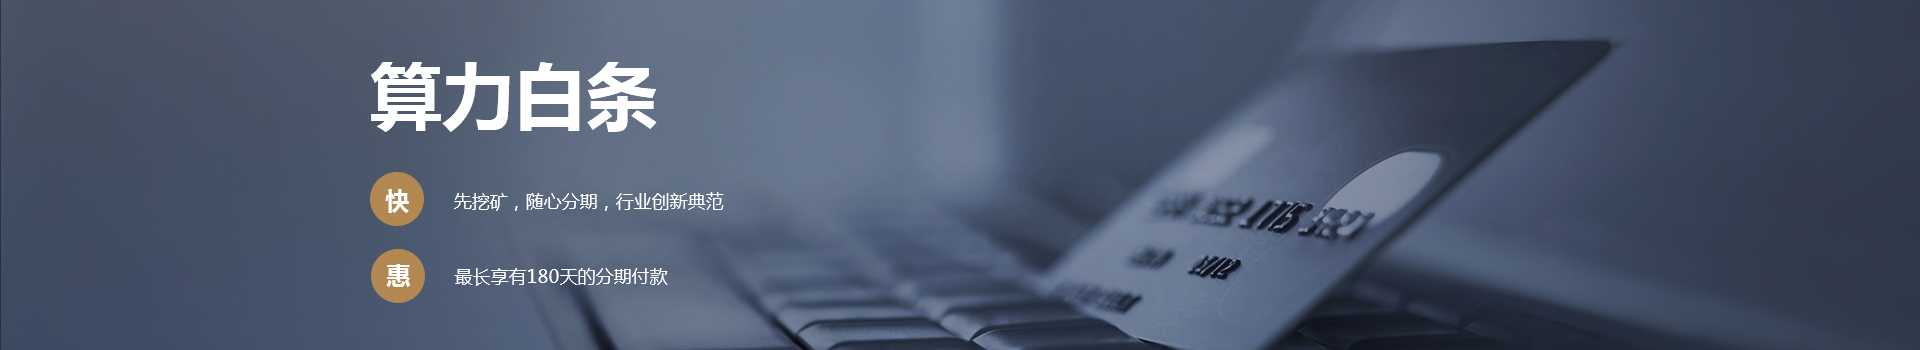
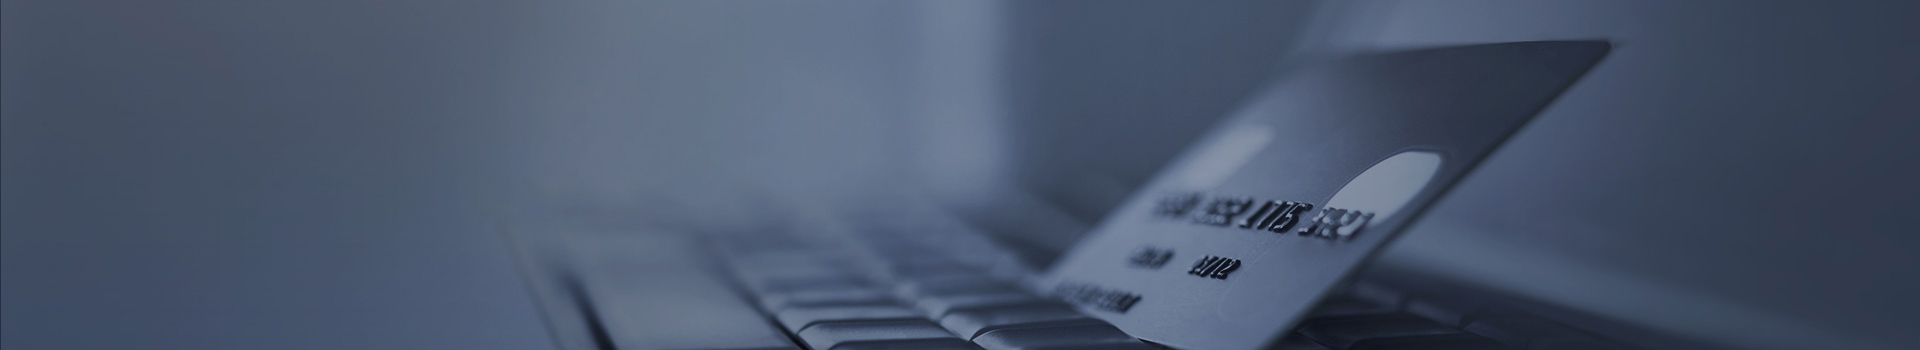
hd

Changed region(s): [[0.1875, 0.1714, 0.3438, 0.3714], [0.1875, 0.4857, 0.375, 0.6571], [0.1875, 0.7143, 0.3438, 0.8571]]

diff --git a/src/components/computeNews/ComputeHome.vue b/src/components/computeNews/ComputeHome.vue
@@ -58,18 +58,22 @@
         <router-link to="/transaction">了解更多 ></router-link>
       </h4>
       <div class="cominfor_infoleft">
-        <p v-for="n,k in infoleft" class="infoleft_p">
-          <span class="status">【出售】</span>
-          <span class="title">{{n.title}}</span>
-          <span class="time">{{n.created_time}}</span>
-        </p>
+        <router-link to="/transaction">
+          <p v-for="n,k in infoleft" class="infoleft_p">
+            <span class="status">【出售】</span>
+            <span class="title">{{n.title}}</span>
+            <span class="time">{{n.created_time}}</span>
+          </p>
+        </router-link>
       </div>
       <div class="cominfor_inforight">
-        <p v-for="n,k in inforight" class="inforight_p">
-          <span class="status">【求购】</span>
-          <span class="title">{{n.title}}</span>
-          <span class="time">{{n.created_time}}</span>
-        </p>
+        <router-link to="/transaction">
+          <p v-for="n,k in inforight" class="inforight_p">
+            <span class="status">【求购】</span>
+            <span class="title">{{n.title}}</span>
+            <span class="time">{{n.created_time}}</span>
+          </p>
+        </router-link>
       </div>
     </div>
     <div class="cominfor_she">
@@ -118,7 +122,7 @@
       <h4>
         <p class="title">挖矿币种</p>
         <p class="text">虚拟数字货币百科</p>
-        <router-link to="/digitalCurrency/list">了解更多 ></router-link>
+        <router-link to="/currency">了解更多 ></router-link>
       </h4>
       <table border="0"  class="covertable" style="margin:0;">
         <thead>

diff --git a/src/views/computeNews/index.vue b/src/views/computeNews/index.vue
@@ -14,7 +14,7 @@
       return {
         active: '',
         computationallist: [{title: '算力资讯', path: '/industryInformation'}, {title: '设备之家', path: '/equipments/list'}, {title: '交易信息', path: '/transaction'}, {title: '挖矿币种', path: '/currency'}],
-        leftnav: [{big: 'icon-zixun', title: '资讯', path: '/computeNews/list'}, {big: 'icon-zixun1', title: '快报', path: '/quickNews/list'}, {big: 'icon-zhizaohangye', title: '厂商', path: '/manufacturer/list'}, {big: 'icon-kuangji', title: '测评', path: '/equipmentEvaluate/list'}, {big: 'icon-bowuguan', title: '博物馆', path: '/equipments/list'}, {big: 'icon-bitebi', title: '币种', path: '/digitalCurrency/list'}]
+        leftnav: [{big: 'icon-zixun', title: '资讯', path: '/computeNews/list'}, {big: 'icon-zixun1', title: '快报', path: '/quickNews/list'}, {big: 'icon-zhizaohangye', title: '厂商', path: '/manufacturer/list'}, {big: 'icon-kuangji', title: '测评', path: '/equipmentEvaluate/list'}, {big: 'icon-bowuguan', title: '博物馆', path: '/equipments/list'}, {big: 'icon-bitebi', title: '历史曲线', path: '/computeChart/list'}]
       }
     },
     computed: {

diff --git a/src/views/home/mobile.vue b/src/views/home/mobile.vue
@@ -11,15 +11,17 @@
     <div class="home_compute_news">
       <h3 class="home_title">算力资讯</h3>
       <div class="compute_items">
-        <div class="item" v-for="n,k in newsNav">
-          <div class="text">
-            <p>{{n.title}}</p>
-            <p>{{n.desc}}</p>
+        <router-link to="/quickNews/list">
+          <div class="item" v-for="n,k in newsNav">
+            <div class="text">
+              <p>{{n.title}}</p>
+              <p>{{n.desc}}</p>
+            </div>
+            <div class="item_img">
+              <img :src="require('@/assets/images/mobile/news'+(k+1)+'.png')" alt="">
+            </div>
           </div>
-          <div class="item_img">
-            <img :src="require('@/assets/images/mobile/news'+(k+1)+'.png')" alt="">
-          </div>
-        </div>
+        </router-link>
       </div>
     </div>
     <div class="home_compute_loan">

diff --git a/src/components/home/dataList/mobile.vue b/src/components/home/dataList/mobile.vue
@@ -4,7 +4,9 @@
     <div class="mobile_listdata">
       <div class="mobile_list_box">
         <div v-for="d,i in list" @click="goPay(d.product_id||d.id)" :key="i" class="mobile_lists">
-          <img :src="d.minerPicture"/>
+          <div class="imgposition">
+            <img :src="d.minerPicture"/>
+          </div>
           <h3>{{d.name}}</h3>
           <h4><b>¥ {{d.one_amount_value}}</b><span class="icon iconfont icon-jinrong"></span></h4>
         </div>
@@ -107,10 +109,15 @@
         border:1px solid #dddddd;
         border-left: 0;
         float: left;
-        img{
+        .imgposition{
           width: 100%;
           height: 3.8rem;
-          object-fit: cover;
+          text-align: center;
+          img{
+            width: 75%;
+            height: 3rem;
+            margin-top: 0.5rem;
+          }
         }
         h3{
           width: 100%;

diff --git a/src/components/miner/MinerList.vue b/src/components/miner/MinerList.vue
@@ -55,7 +55,7 @@
     </CloudMinerList>
     <div class="miner_loan">
       <div class="loan_center">
-        <h1>算力白条</h1>
+        <h1>算力分期</h1>
         <p><span>快</span>先挖矿,随心分期，行业创新典范</p>
         <p><span>惠</span>最长享有180天的分期付款</p>
       </div>
@@ -293,7 +293,7 @@
       }
     }
     .millsList{
-      padding-top: 120px;
+      padding-top: 80px;
       @include mobile_hide
     }
     .product_list{

diff --git a/src/components/common/Product.vue b/src/components/common/Product.vue
@@ -834,6 +834,17 @@
       }
     }
     .mobile_box{
+      .img{
+        width: 100%;
+        height: 8.5rem;
+        padding:0.5rem;
+        text-align: center;
+        padding-top: 1.5rem;
+        background: white;
+        img{
+          width: 80%;
+        }
+      }
       .first_box,.product_desc,.mobile_btn{
         background: #fff;
         padding: 15px;

diff --git a/src/components/computeNews/Transaction.vue b/src/components/computeNews/Transaction.vue
@@ -258,6 +258,10 @@
                   margin-top: 18px;
               }
           }
+          &:hover{
+            background: #f6f7fb;
+            cursor: pointer;
+          }
       }
     }
   }
